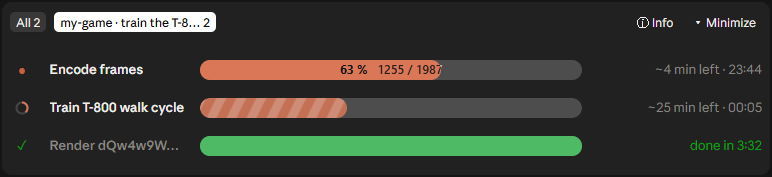
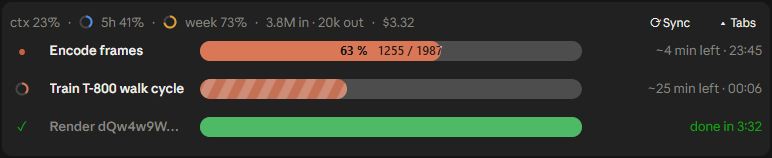
README: the light picture minimized (figures over three jobs)

diff --git a/README.md b/README.md
@@ -4,7 +4,7 @@ A Claude Code mod: live progress bars above the prompt for long jobs (training r
 Claude desktop app's Code tab and in the terminal, every chat's jobs in tabs, and the session's figures (context, rate
 limits, tokens, cost) in one line.
 
-![the band above the prompt: three jobs of this chat](docs/demo/light.png)
+![the band minimized: the session's figures over three jobs of this chat](docs/demo/light.png)
 
 <sub>Every screenshot here is the mod's demo mode: made-up jobs, chats and figures.</sub>
 
